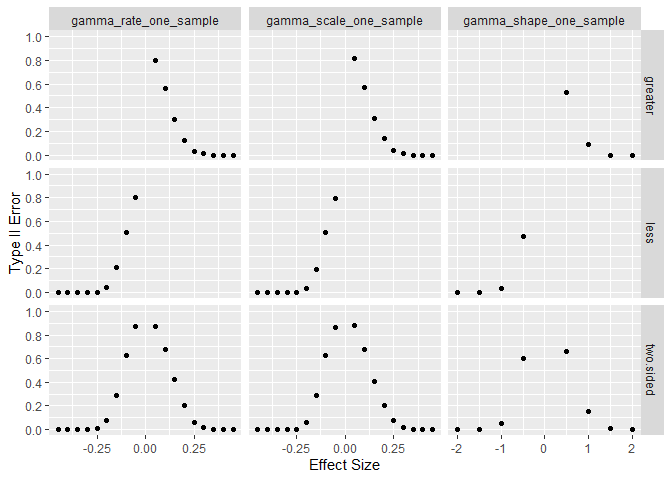
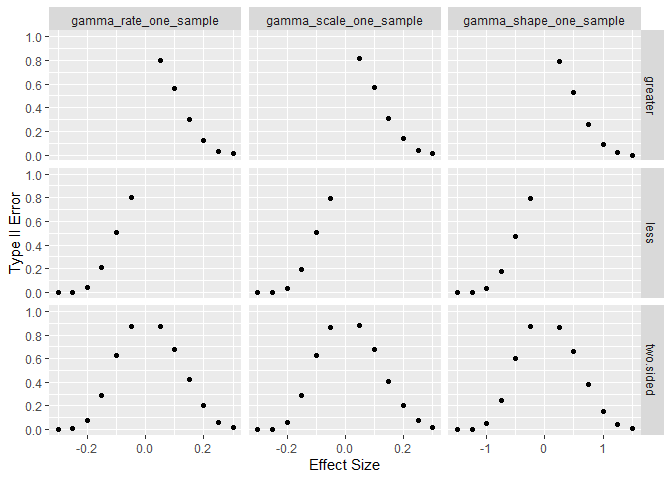
effect size range

diff --git a/type II/README.md b/type II/README.md
@@ -6,29 +6,29 @@ main changes are the alternative hypothesis is true, the null hypothesis
 is held constant and effect size varies. The first five data points look
 like
 
-    #> # A tibble: 240,000 × 5
-    #>   test                   effectSize  stat   pvalue alt      
-    #>   <chr>                       <dbl> <dbl>    <dbl> <chr>    
-    #> 1 gaussian_mu_one_sample       -0.3  36.3 1.70e- 9 two.sided
-    #> 2 gaussian_mu_one_sample       -0.3  26.0 3.40e- 7 two.sided
-    #> 3 gaussian_mu_one_sample       -0.3  28.0 1.19e- 7 two.sided
-    #> 4 gaussian_mu_one_sample       -0.3  54.7 1.39e-13 two.sided
-    #> 5 gaussian_mu_one_sample       -0.3  44.1 3.04e-11 two.sided
-    #> # … with 239,995 more rows
+    #> # A tibble: 180,000 × 5
+    #>   test                   effectSize  stat      pvalue alt      
+    #>   <chr>                       <dbl> <dbl>       <dbl> <chr>    
+    #> 1 gaussian_mu_one_sample       -0.2 15.2  0.0000989   two.sided
+    #> 2 gaussian_mu_one_sample       -0.2  8.91 0.00283     two.sided
+    #> 3 gaussian_mu_one_sample       -0.2 10.1  0.00145     two.sided
+    #> 4 gaussian_mu_one_sample       -0.2 27.3  0.000000177 two.sided
+    #> 5 gaussian_mu_one_sample       -0.2 20.5  0.00000611  two.sided
+    #> # … with 179,995 more rows
     #> # ℹ Use `print(n = ...)` to see more rows
 
 Multiple experiments are aggregated to calculate type II error rates.
 
-    #> # A tibble: 24 × 3
+    #> # A tibble: 18 × 3
     #> # Groups:   test [2]
     #>   test                   effectSize Type_II_Error
     #>   <chr>                       <dbl>         <dbl>
-    #> 1 gaussian_mu_one_sample      -0.3           0   
-    #> 2 gaussian_mu_one_sample      -0.25          0   
-    #> 3 gaussian_mu_one_sample      -0.2           0   
-    #> 4 gaussian_mu_one_sample      -0.15          0.06
-    #> 5 gaussian_mu_one_sample      -0.1           0.34
-    #> # … with 19 more rows
+    #> 1 gaussian_mu_one_sample      -0.2           0   
+    #> 2 gaussian_mu_one_sample      -0.15          0.06
+    #> 3 gaussian_mu_one_sample      -0.1           0.34
+    #> 4 gaussian_mu_one_sample      -0.05          0.75
+    #> 5 gaussian_mu_one_sample       0.05          0.75
+    #> # … with 13 more rows
     #> # ℹ Use `print(n = ...)` to see more rows
 
 Like type I calculations, each simulated experiment is based on a sample
